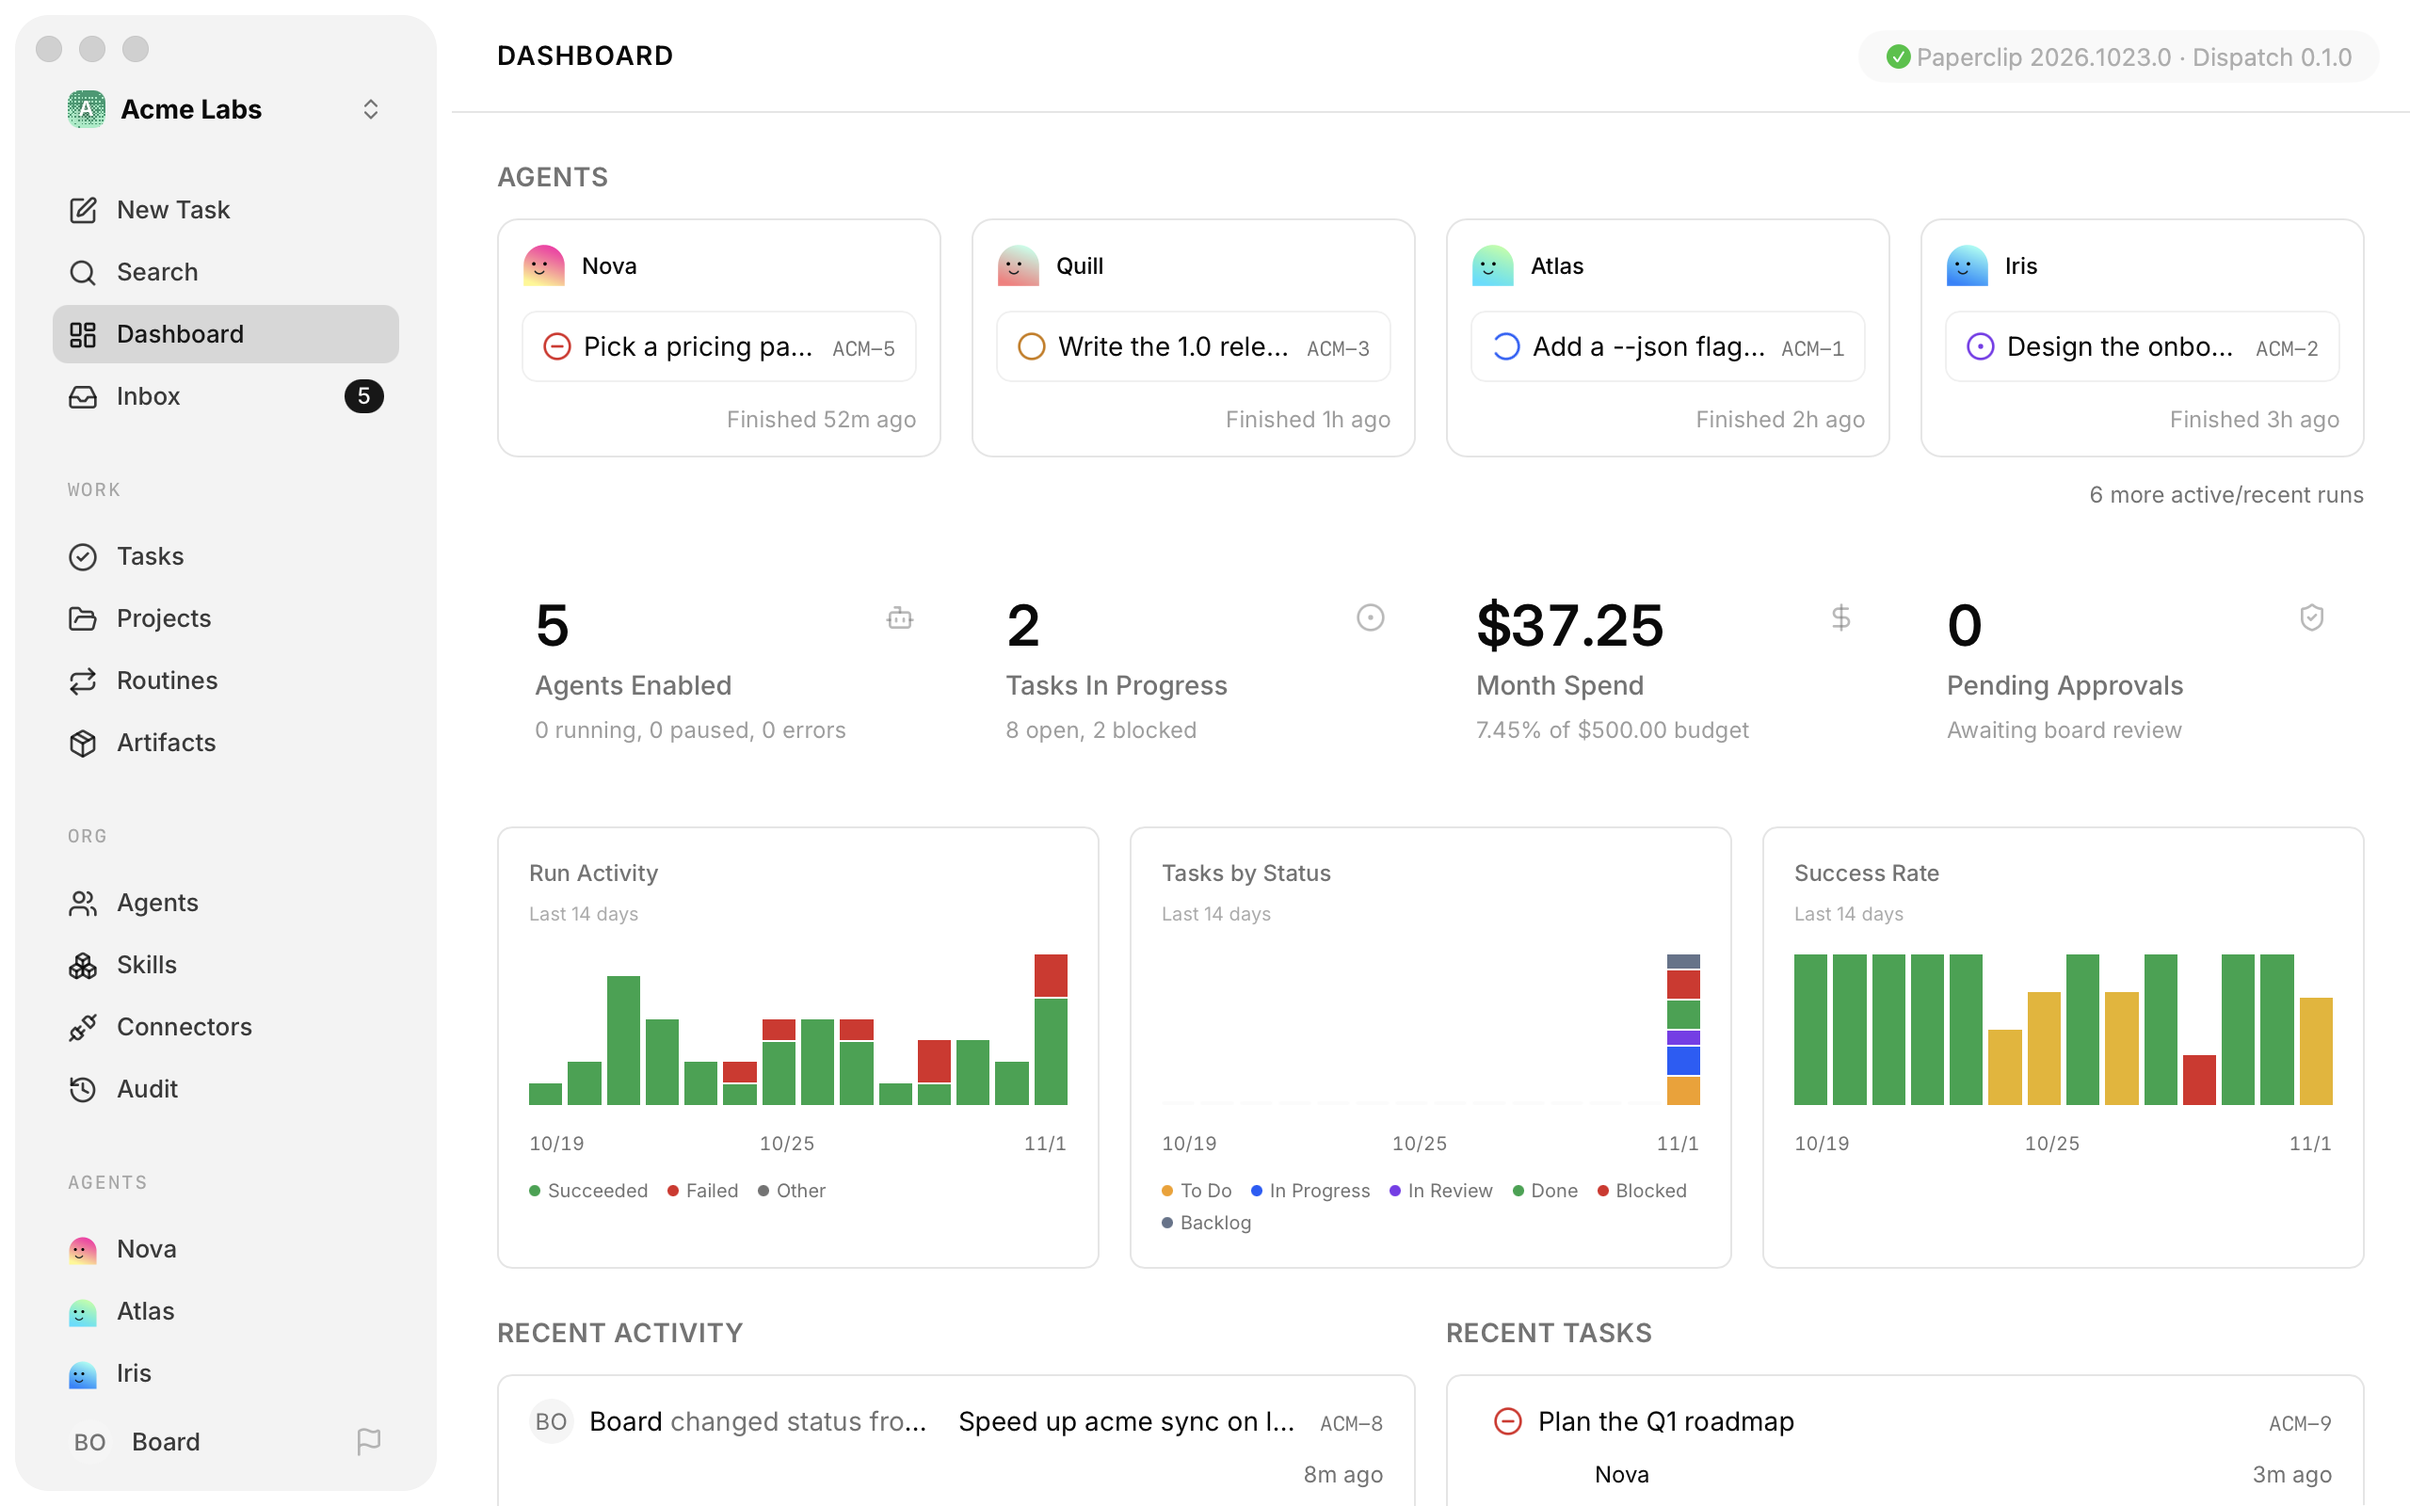
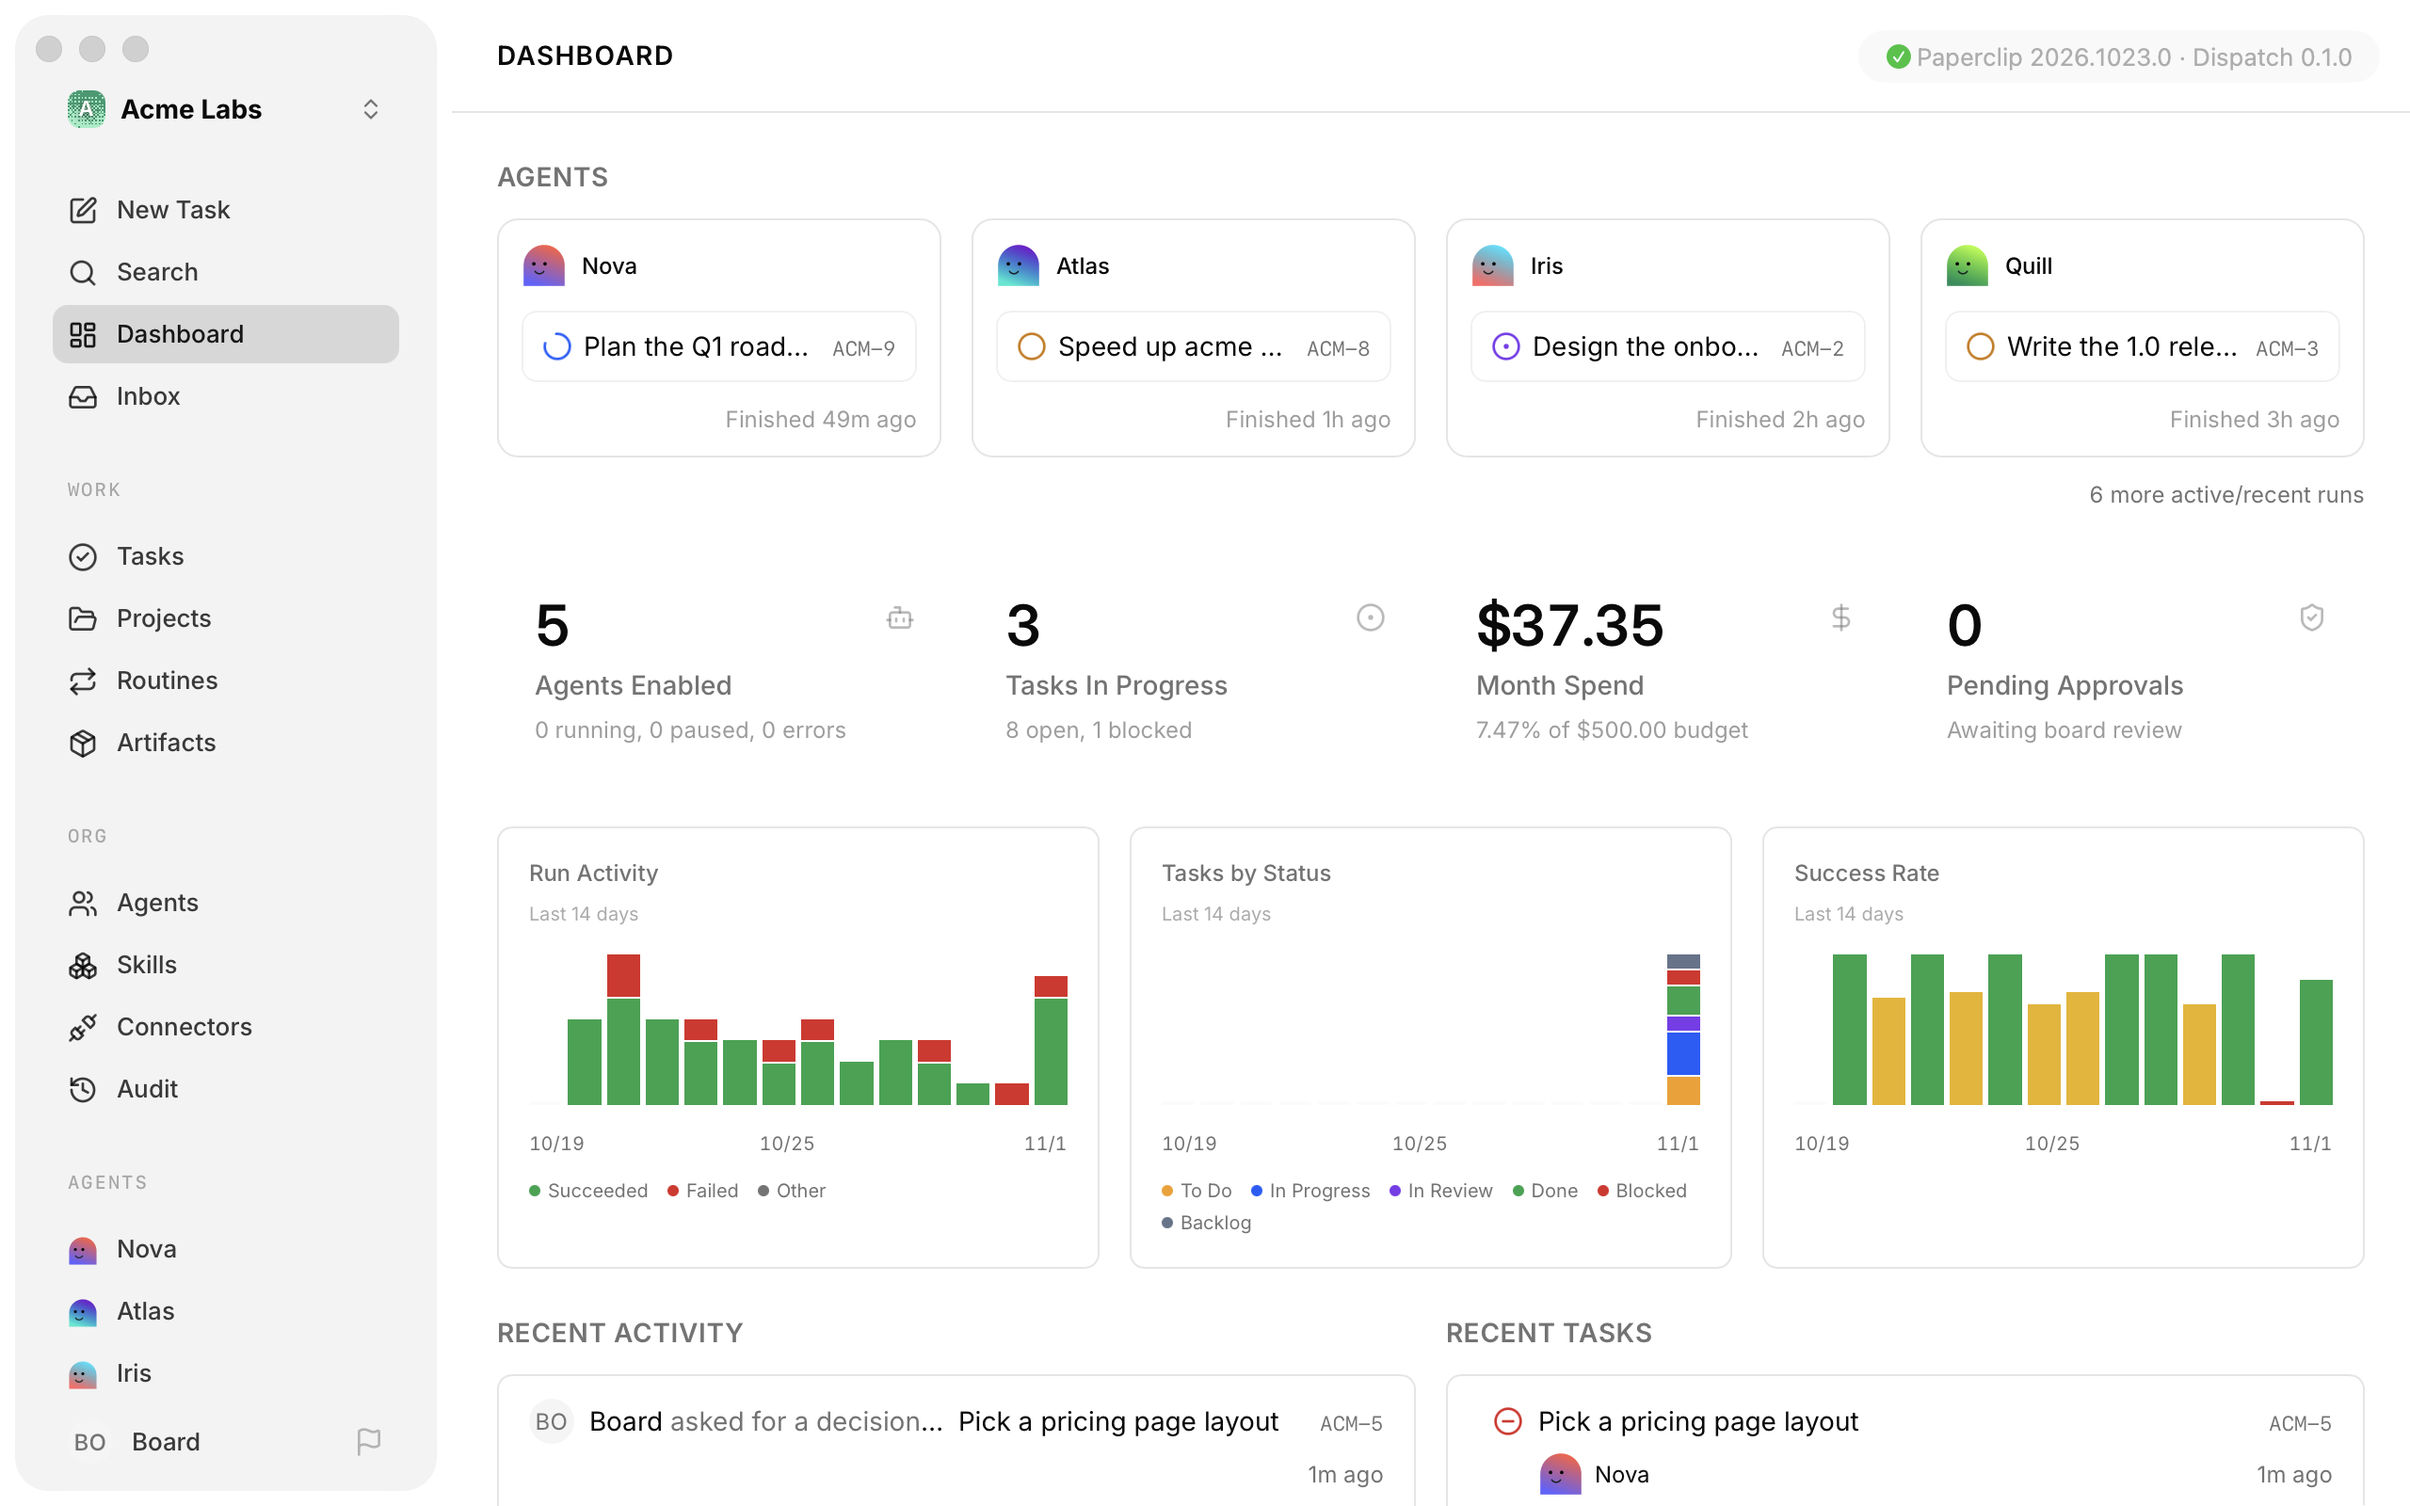
docs: add dark versions of the glass, welcome and settings screenshots
Retake the Liquid Glass window in light and dark from the same sample data, so both themes show the same screen.

diff --git a/docs/images/README.md b/docs/images/README.md
@@ -12,13 +12,18 @@ connected to a separate Paperclip instance with a made-up company. No personal i
 | `window-light.png` | The main window on the Paperclip dashboard, light | `SHADOW=0 SIZE=1280x800 macos/snapshot.zsh page /<PREFIX>/dashboard`, with Appearance set to Light in the copy's Settings |
 | `window-dark.png` | The same, dark | The same, with Appearance set to Dark |
 | `window-glass.png` | The main window with the Liquid Glass sidebar | The same, light, with Liquid Glass in Paperclip turned on |
-| `welcome.png` | The connection step of the welcome | `macos/snapshot.zsh welcome` (`found-light.png`) |
-| `settings.png` | Settings, General tab | `macos/snapshot.zsh settings` (`general-light.png`) |
+| `window-glass-dark.png` | The same, dark | The same, with Appearance set to Dark |
+| `welcome.png` | The connection step of the welcome | `macos/snapshot.zsh welcome` (`found-light.png`), with the Mac in light mode |
+| `welcome-dark.png` | The same, dark | `macos/snapshot.zsh welcome` (`found-dark.png`), with the Mac in dark mode |
+| `settings.png` | Settings, General tab | `macos/snapshot.zsh settings` (`general-light.png`), with Appearance set to Light in the copy's Settings |
+| `settings-dark.png` | The same, dark | `macos/snapshot.zsh settings` (`general-dark.png`), with Appearance set to Dark |
 | `notification.png` | The stuck-task notification with its Wake up button, light | `macos/snapshot.zsh notifications` (`mac-agent-light.png`) |
 | `notification-dark.png` | The same, dark | `macos/snapshot.zsh notifications` (`mac-agent-dark.png`) |
 
-There is no dark version of `window-glass.png` yet: the sample Paperclip instance it was taken from no
-longer exists, and a new one would not match the light capture. The landing uses the light one in both themes.
+Every screenshot the landing and the READMEs show has a dark version, used with `prefers-color-scheme: dark`.
+Take each pair in the same session, from the same Paperclip data, so switching themes shows the same
+screen. The welcome's app icon follows the Mac's appearance, not the capture's. Settings draws each
+capture in its own theme, but the Appearance option it shows as selected is the copy's setting.
 
 The landing's share image (`og:image`, 1200 × 630) is composed from these captures by
 `site/social/card.html` and saved as `site/social/card.jpg`; that page explains how to remake it. Remake it
